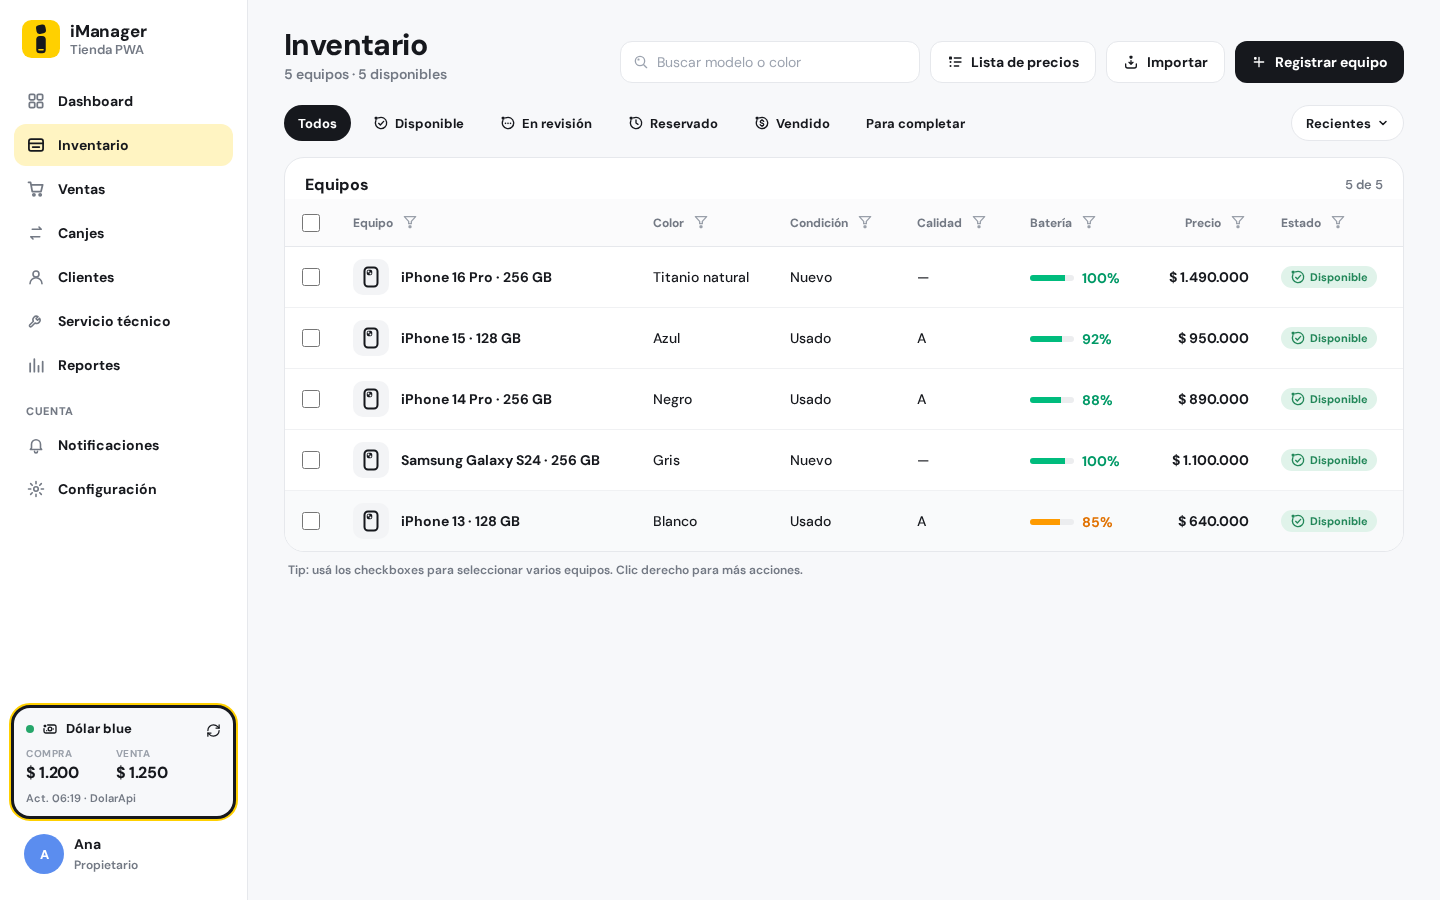
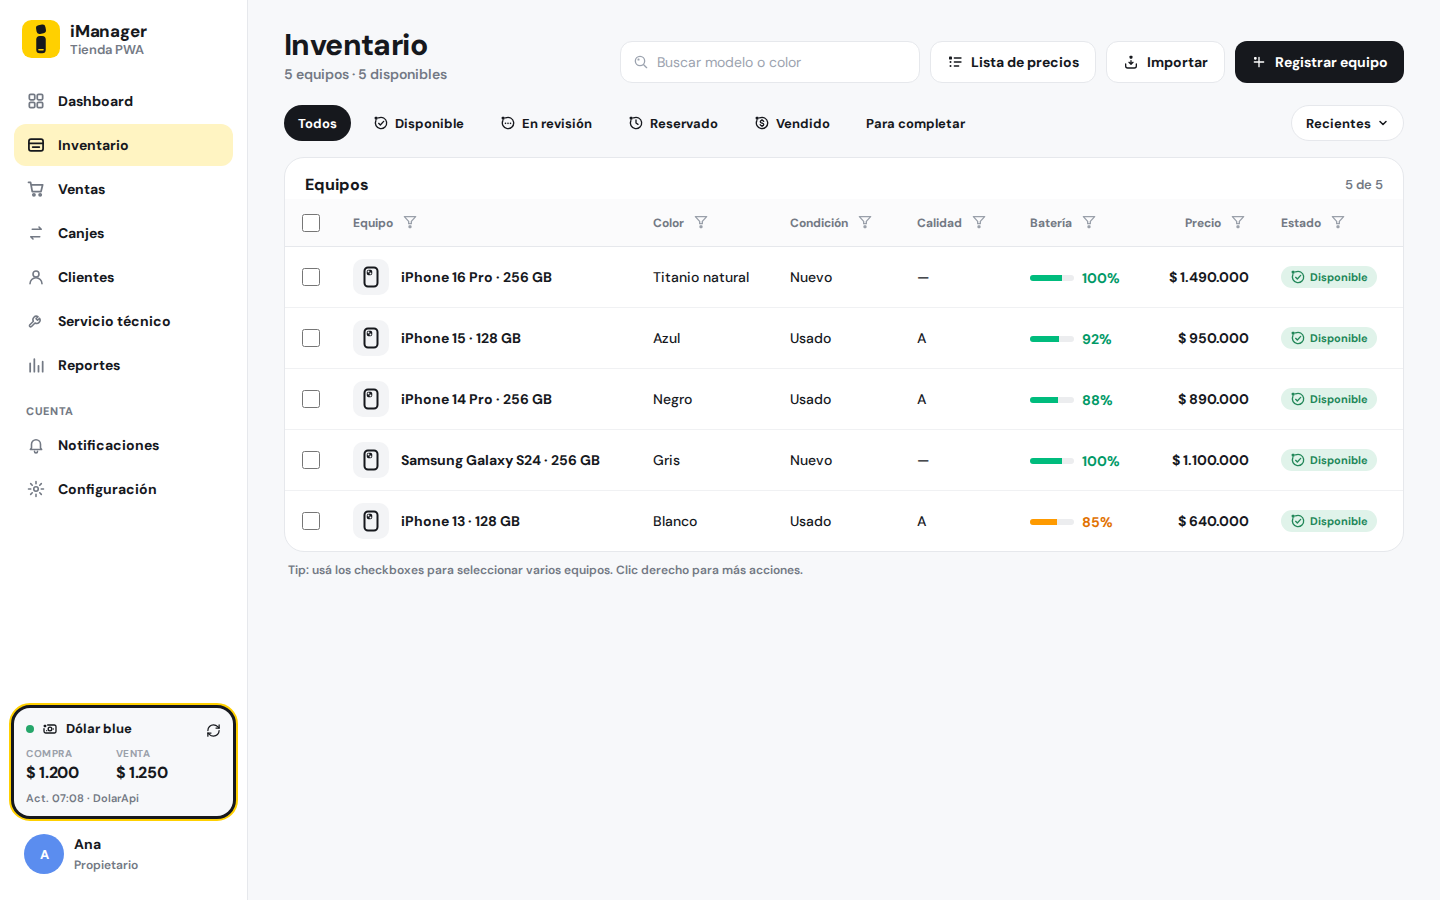
feat: add pwa screenshots and keep mobile gestures from leaking
Declare wide and narrow manifest screenshots from the Playwright captures.
Let the update toast pass clicks through to an open form, and consume the
desglose backdrop release so the tap does not change the report tab.

diff --git a/e2e/pwa/install.spec.ts b/e2e/pwa/install.spec.ts
@@ -135,7 +135,9 @@ test('Android retains its own install action after the legacy iOS guide and clos
 
 test('standalone dollar uses brand keyboard focus and no tap outline; captures real inventory for the manifest', async ({ page }, info) => {
   await page.addInitScript(() => Object.defineProperty(navigator, 'standalone', { value: true }));
-  await session(page); await page.goto('/#/inv');
+  await session(page);
+  await page.getByRole('button', { name: 'Inventario', exact: true }).click();
+  await expect(page.getByRole('heading', { name: 'Inventario' })).toBeVisible();
   await expect(page.getByText(/iPhone 16 Pro/).first()).toBeVisible();
   const dollar = page.locator('.dolar-hit');
   await expect(dollar).toBeVisible();
@@ -148,7 +150,9 @@ test('standalone dollar uses brand keyboard focus and no tap outline; captures r
   await page.getByRole('button', { name: 'Cerrar', exact: true }).click();
   // Explicit pointer modality after the sheet, even on browsers that keep
   // keyboard focus-visible after programmatic focus restoration.
-  await page.locator('.dolar').click({ position: { x: 2, y: 2 } });
+  // The pill sits under the sidebar or the sticky header, so a corner click never lands.
+  // A real pointer hit on the stage switches modality before the programmatic focus.
+  await page.locator('main.stage').click({ position: { x: 8, y: 8 } });
   await dollar.focus();
   expect(await dollar.evaluate((button) => getComputedStyle(button).outlineStyle)).toBe('none');
   if (info.project.name === 'iphone-webkit') await screenshot(page, 'issue-292-mobile-iphone-dolar.png');
@@ -204,11 +208,20 @@ test('a new release reloads an idle tab without a hard refresh', async ({ page }
 
 test('mobile Desglose backdrop consumes pointerdown and click over report tabs', async ({ page }, info) => {
   test.skip(info.project.name === 'desktop-chromium');
-  await session(page); await page.goto('/#/rep');
+  await page.addInitScript(() => {
+    localStorage.setItem('imanager:install-dismissed:ios', 'yes');
+    localStorage.setItem('imanager:install-dismissed:android', 'yes');
+  });
+  await session(page);
+  await page.getByRole('button', { name: 'Reportes', exact: true }).click();
+  await expect(page.getByRole('heading', { name: 'Reportes' })).toBeVisible();
   const select = page.getByRole('combobox', { name: 'Columna de desglose' });
-  await select.click();
   const tab = page.getByRole('group', { name: 'Tipo de reporte' }).getByRole('button', { name: 'Stock', exact: true });
+  await tab.scrollIntoViewIfNeeded();
   const box = await tab.boundingBox();
+  // Opening by event keeps the tabs on screen; a normal click scrolls the selector and the tap misses the backdrop.
+  await select.dispatchEvent('click');
+  await expect(page.getByRole('dialog', { name: 'Desglose' })).toBeVisible();
   await page.touchscreen.tap(box!.x + box!.width / 2, box!.y + box!.height / 2);
   await expect(page.getByRole('dialog', { name: 'Desglose' })).toHaveCount(0);
   await expect(page).toHaveURL(/#\/rep$/);

diff --git a/src/desk/select.test.tsx b/src/desk/select.test.tsx
@@ -200,9 +200,9 @@ describe('DeskSelect', () => {
 it('consumes the mobile backdrop gesture before closing without bubbling to the underlying tab or parent sheet', async () => {
   const media = mobile();
   try {
-    const down = vi.fn(); const click = vi.fn(); const change = vi.fn(); const close = vi.fn();
-    render(<div onPointerDown={down} onClick={click}><Sheet title="Tienda" onClose={close}><Example onChange={change} /></Sheet><button>Ventas</button></div>);
-    await userEvent.click(trigger()); down.mockClear(); click.mockClear();
+    const down = vi.fn(); const up = vi.fn(); const click = vi.fn(); const change = vi.fn(); const close = vi.fn();
+    render(<div onPointerDown={down} onPointerUp={up} onClick={click}><Sheet title="Tienda" onClose={close}><Example onChange={change} /></Sheet><button>Ventas</button></div>);
+    await userEvent.click(trigger()); down.mockClear(); up.mockClear(); click.mockClear();
     const backdrop = document.querySelector('.ds-select-backdrop')!;
     const pointer = new Event('pointerdown', { bubbles: true, cancelable: true });
     fireEvent(backdrop, pointer);
@@ -213,6 +213,17 @@ it('consumes the mobile backdrop gesture before closing without bubbling to the 
     fireEvent(backdrop, release);
     expect(release.defaultPrevented).toBe(true);
     expect(screen.queryByRole('dialog', { name: 'Desglose' })).toBeNull();
-    expect(click).not.toHaveBeenCalled(); expect(close).not.toHaveBeenCalled(); expect(change).not.toHaveBeenCalled();
+    expect(click).not.toHaveBeenCalled(); expect(up).not.toHaveBeenCalled(); expect(close).not.toHaveBeenCalled(); expect(change).not.toHaveBeenCalled();
+    await userEvent.click(trigger()); down.mockClear(); up.mockClear(); click.mockClear();
+    const again = document.querySelector('.ds-select-backdrop')!;
+    fireEvent(again, new Event('pointerdown', { bubbles: true, cancelable: true }));
+    const pointerUp = new Event('pointerup', { bubbles: true, cancelable: true });
+    fireEvent(again, pointerUp);
+    expect(pointerUp.defaultPrevented).toBe(true);
+    expect(screen.queryByRole('dialog', { name: 'Desglose' })).toBeNull();
+    const leaked = new MouseEvent('click', { bubbles: true, cancelable: true });
+    fireEvent(screen.getByRole('button', { name: 'Ventas' }), leaked);
+    expect(leaked.defaultPrevented).toBe(true);
+    expect(up).not.toHaveBeenCalled(); expect(click).not.toHaveBeenCalled(); expect(change).not.toHaveBeenCalled();
   } finally { media.mockRestore(); }
 });

diff --git a/src/desk/select.tsx b/src/desk/select.tsx
@@ -185,6 +185,20 @@ export function DeskSelect({ id: suppliedId, label, sheetTitle = label, value, o
         <AnimatePresence>
           <div className={phone ? 'ds-select-backdrop' : 'ds-select-layer'} onMouseDown={(event) => event.stopPropagation()}
             onPointerDown={(event) => { event.stopPropagation(); if (event.target === event.currentTarget && phone) event.preventDefault(); }}
+            onPointerUp={(event) => {
+              if (event.target !== event.currentTarget || !phone) return;
+              event.preventDefault();
+              event.stopPropagation();
+              // pointerdown is canceled, but some browsers still emit a click after the sheet unmounts.
+              const swallow = (click: Event) => {
+                click.preventDefault();
+                click.stopPropagation();
+                document.removeEventListener('click', swallow, true);
+              };
+              document.addEventListener('click', swallow, true);
+              window.setTimeout(() => document.removeEventListener('click', swallow, true), 400);
+              close();
+            }}
             onClick={(event) => { event.stopPropagation(); if (event.target === event.currentTarget && phone) { event.preventDefault(); close(); } }}>
             <motion.div ref={popup} id={`${id}-popup`} className={`ds-select-popup${phone ? ' phone' : ''}`} style={phone ? undefined : position}
               role={phone ? 'dialog' : undefined} aria-modal={phone ? true : undefined} aria-label={phone ? sheetTitle : undefined}

diff --git a/src/components/pwa-update.css b/src/components/pwa-update.css
@@ -12,8 +12,9 @@
   color: #fff;
   box-shadow: 0 8px 28px rgb(22 24 29 / 18%);
   font: 600 13px/1.5 'DM Sans', system-ui, sans-serif;
+  pointer-events: none;
 }
-.pwa-update button { border: 0; background: transparent; color: #FFD000; font: inherit; font-weight: 800; cursor: pointer; min-height: 44px; padding: 0 4px; }
+.pwa-update button { border: 0; background: transparent; color: #FFD000; font: inherit; font-weight: 800; cursor: pointer; min-height: 44px; padding: 0 4px; pointer-events: auto; }
 .pwa-update button:focus-visible { outline: 2px solid #FFD000; outline-offset: 2px; border-radius: 4px; }
 .pwa-update small { display: block; max-width: 340px; color: #D1D5DB; font-size: 12px; }
 @media (max-width: 760px) { .pwa-update { bottom: calc(84px + env(safe-area-inset-bottom, 0px)); } }

diff --git a/openspec/changes/pwa-follow-ups/tasks.md b/openspec/changes/pwa-follow-ups/tasks.md
@@ -1,9 +1,9 @@
 # Tasks
 
-- [ ] Firebase variable, proxy y documentación de configuración/rollback.
-- [ ] Foco accesible del dólar y descarte independiente por plataforma.
-- [ ] Screenshots Playwright y manifest enriquecido.
-- [ ] Actualización del worker y recarga segura con toast.
-- [ ] Cierre del selector sin click-through y regresiones.
-- [ ] Lint, build solicitado, suites unitarias/PWA/E2E y capturas inspeccionadas.
-- [ ] Commit solicitado sin push.
+- [x] Firebase variable, proxy y documentación de configuración/rollback.
+- [x] Foco accesible del dólar y descarte independiente por plataforma.
+- [x] Screenshots Playwright y manifest enriquecido.
+- [x] Actualización del worker y recarga segura con toast.
+- [x] Cierre del selector sin click-through y regresiones.
+- [x] Lint, build solicitado, suites unitarias/PWA/E2E y capturas inspeccionadas.
+- [x] PR contra main con Closes #292.
